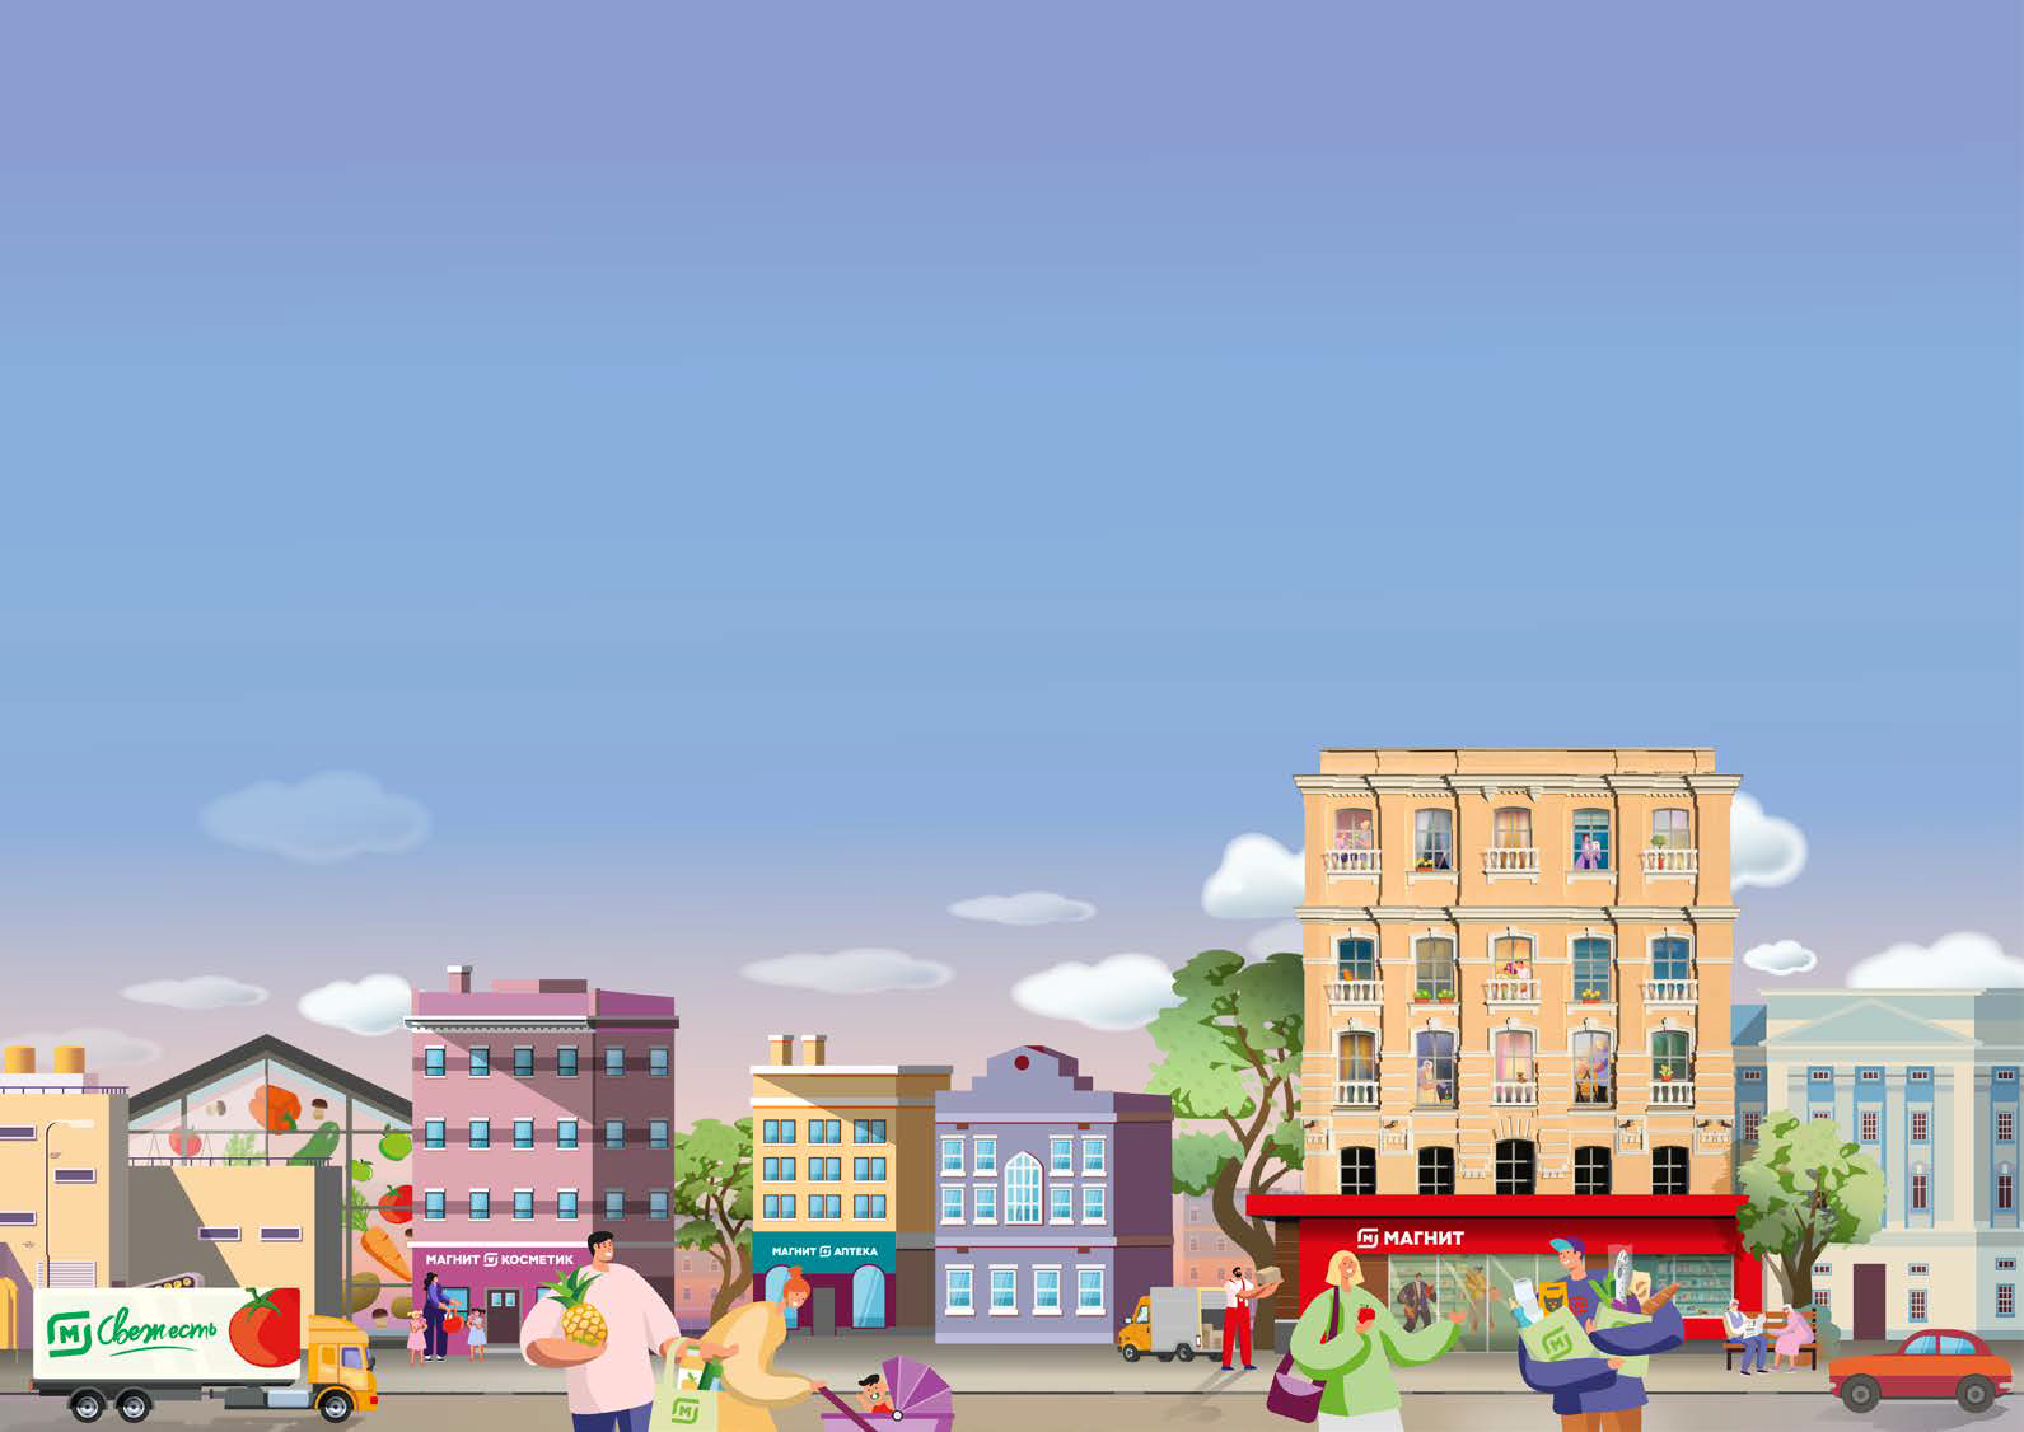
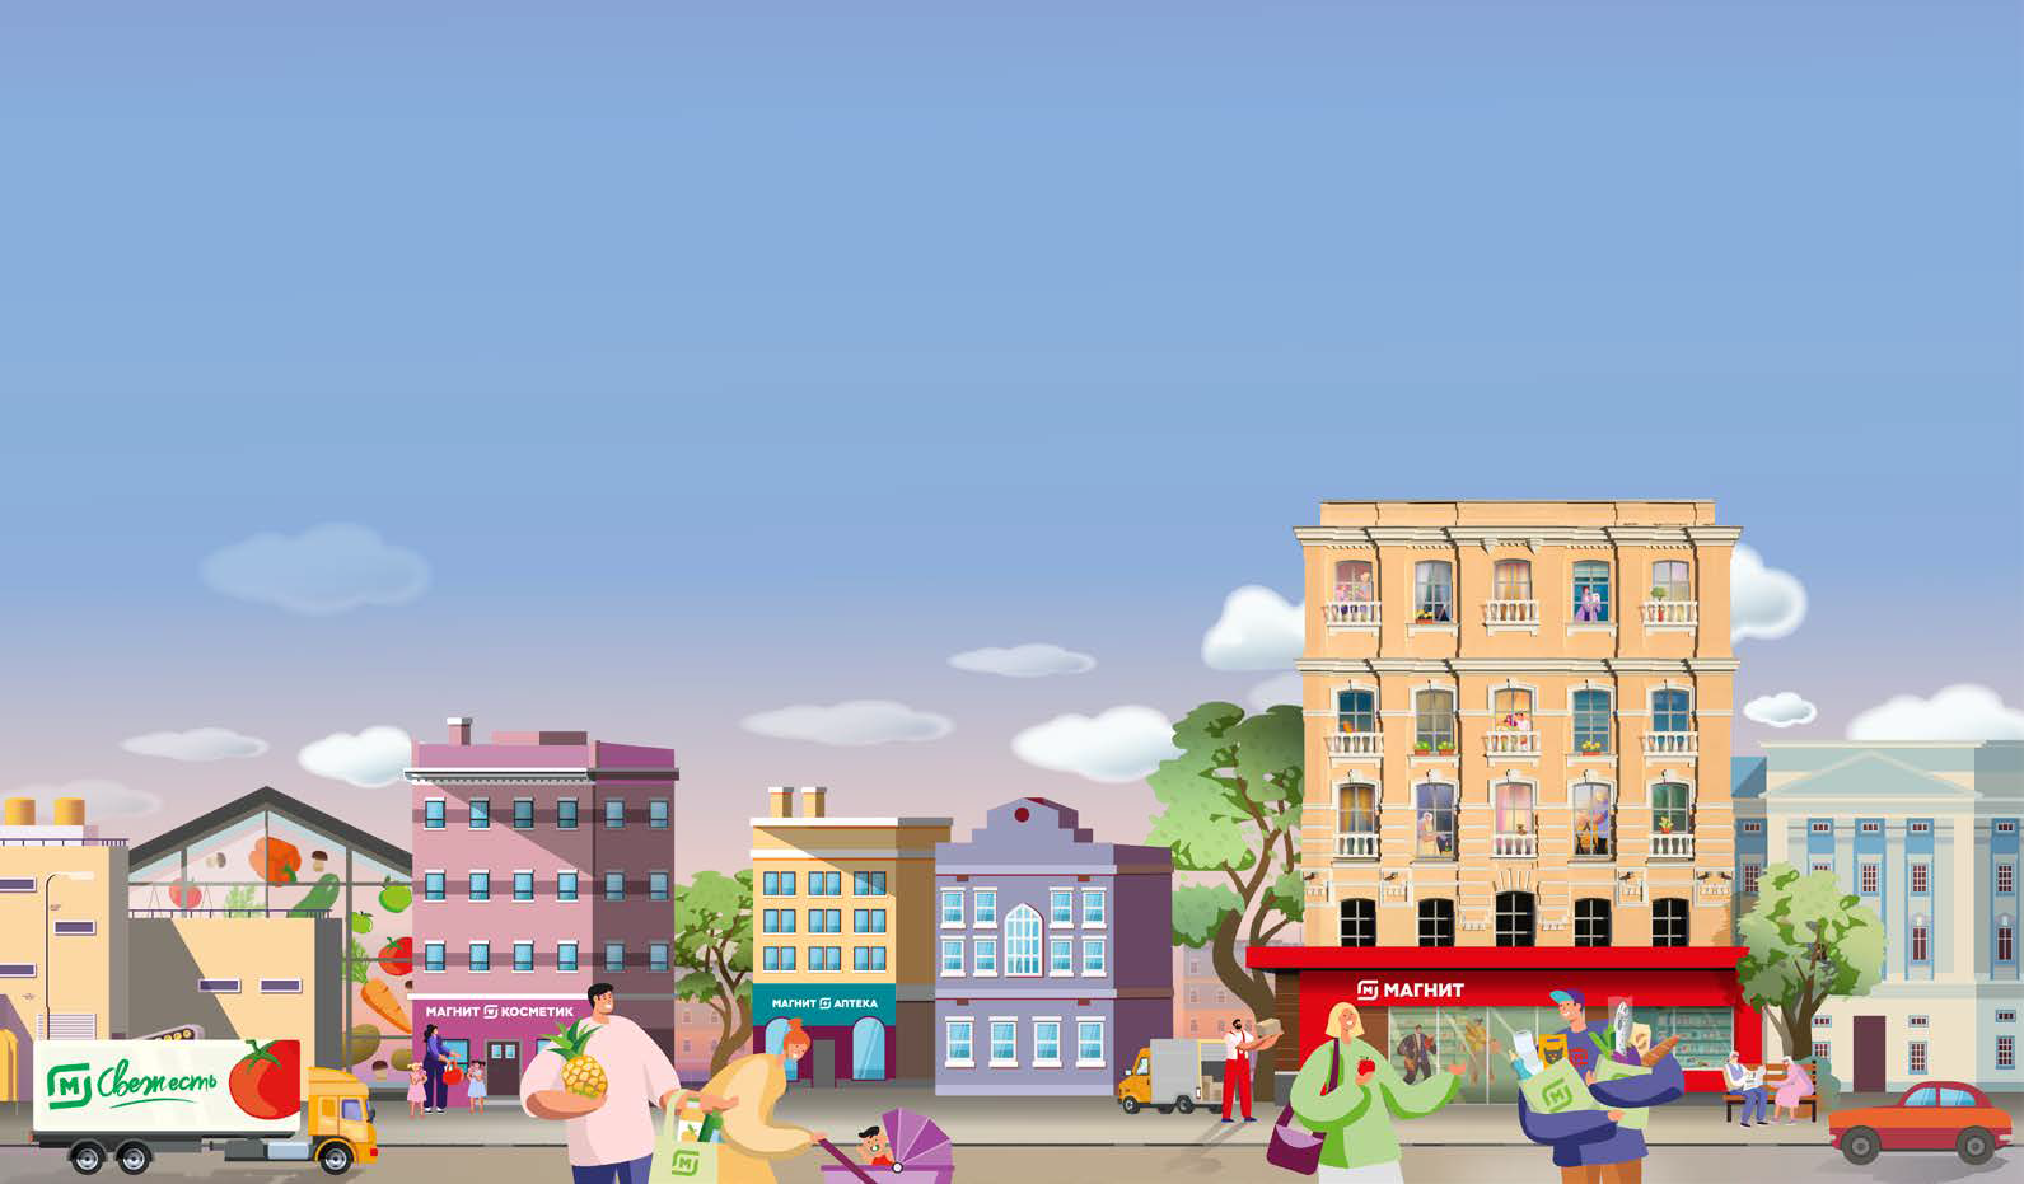
tooltip added

diff --git a/index.html b/index.html
@@ -78,13 +78,19 @@
             <p>Кроме того, крайне благоприятным для розничной торговли фактором стало усиление инфляции в сочетании с существенным увеличением реальных располагаемых доходов населения после выхода россиян на работу.</p>
             <img src="images/image1mob.png" alt="image1" class="imgMobile">
           </div>
-          <div class="step" data-step="3">
+          <div class = 'stepDif'>
+            <div class = "tooltip"><div class = "tooltipText">
+              <h3>Финансовая поддержка населения</h3>
+              <p>Единовременные выплаты пенсионерам и ученикам начальной и средней школы в размере 10 тыс. руб., а также выплаты бывшим военнослужащим в размере 15 тыс. руб. Кроме того, ежемесячное пособие неполным семьям на детей в возрасте от 8 до 16 лет включительно составило в среднем 5 650 руб.</p>    
+            </div></div>
+          <div class="step special" data-step="3">
             <p>После резкого увеличения потребительских расходов во II квартале 2021 г. темпы роста выручки в сфере розничной торговли и торговли продовольственными товарами в последующих кварталах снизились. Для стимулирования восстановления экономики правительство объявило о мерах дополнительной финансовой поддержки для малого бизнеса, семей и социально незащищенных категорий населения.</p>
-            <img src="images/ill1.svg" alt="illustration shop" class="illustrationCard">
             <img src="images/image1mob.png" alt="image1" class="imgMobile">
           </div>
+        </div>
           <div class="step" data-step="3">
             <p>С учетом того, что семьи с низким уровнем дохода обычно тратят около 40% своего дохода на продукты питания, предполагается, что указанная дополнительная помощь будет использована на покупку продовольствия.</p>
+            <img src="images/ill1.svg" alt="illustration shop" class="illustrationCard">
                 </div>
           <div class="step" data-step="3">
             <p>По данным «Сбербанк КИБ», в 2021–2024 гг. правительство планирует дополнительно выделить 500 млрд руб. на социальные нужды, строительство и меры государственного контроля в сфере экологии, цифровизации и развития клиентоориентированности. Это стало возможным благодаря росту экономики и увеличению бюджетных поступлений от несырьевого сектора1. </p>

diff --git a/style.css b/style.css
@@ -42,10 +42,9 @@ h2{
 h3{
   color: #E30510;
   font-family: proxima-nova,sans-serif;
-  font-weight: 400;
+  font-weight: 700;
   font-style: normal;
   font-size: 1rem;
-  text-transform: uppercase;
   padding-bottom: 1.5rem;
 }
 
@@ -112,6 +111,9 @@ a:hover {
   width: 98vw;
   text-align: left;
   background-color: #E30510;
+  /* background-image: url(/images/background.png);
+  background-size: cover;
+  background-position: center center; */
   margin: 2vh;
   display: flex;
     flex-direction: column;
@@ -177,11 +179,15 @@ article {
 }
 
 #stickyImage{
-  width: 70rem;
+  width: 40rem;
   height: auto;
 }
 
 
+.stepDif{
+  flex-direction: row-reverse;
+  display: flex;
+}
 
 .sticky-thing p {
   padding: 1rem;
@@ -200,12 +206,12 @@ border-radius: 10px;
 padding: 24px;
 gap: 10px;
 width: 30rem;
-margin-top: 10rem;
+  margin-top: 10rem;
 }
 
-.step:last-child {
+/* .step:last-child {
   margin-bottom: 0;
-}
+} */
 
 
 
@@ -351,14 +357,42 @@ ul{
   height: 100px;
 }
 
+.special{
+  margin-top: 0!important;
+}
+
+.tooltip{
+  background-color: #E30510;
+  width: 32px;
+  border-radius: 100%;
+  height: 32px;
+  margin-left: -15px;
+  margin-top: 16px;
+  z-index: 2;
+}
+
 
 
 
 .tooltip:hover .tooltipText{
+  padding: 1rem 2rem 1rem 1.6rem;
   visibility: visible;
+  background-color: #E30510;
+  width: 25rem;
+  text-align: left;
   
 }
 
+
+.tooltipText p {
+  font-size: 0.8rem;
+  color: white;
+}
+
+.tooltipText h3 {
+  font-size: 0.8rem;
+  color: white;
+}
 
 
 
@@ -384,6 +418,8 @@ ul{
     margin-bottom: 4rem;
     background-color: transparent;
   }
+
+
 
   .sticky-thing{
     display: none;
